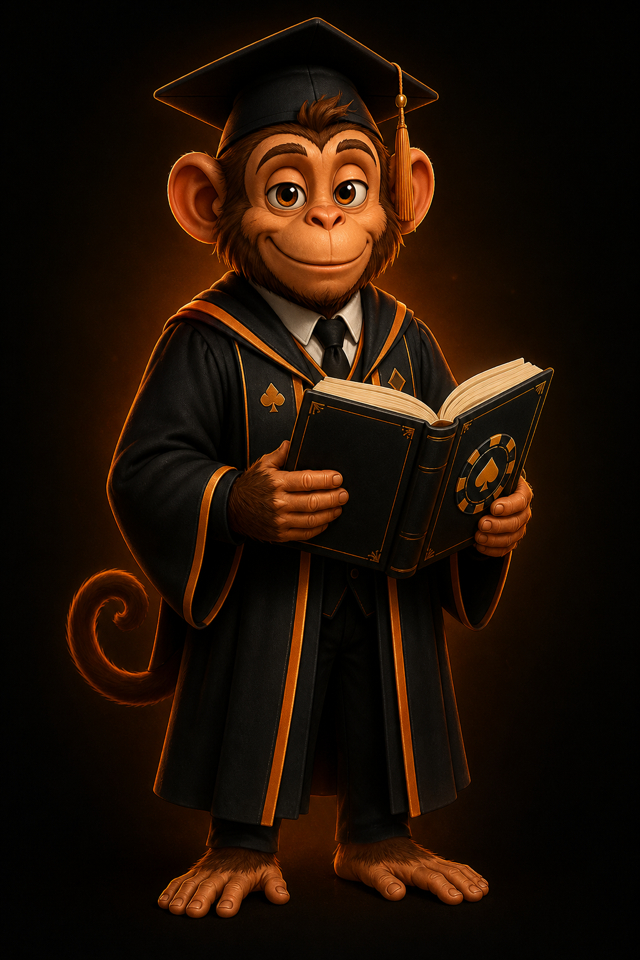
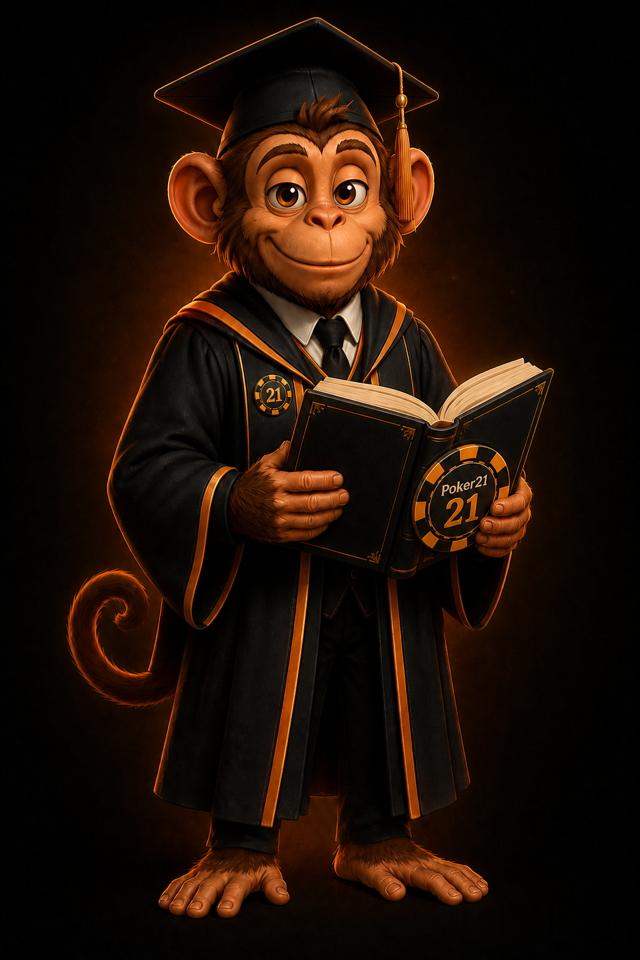
Refresh coach branding and July highlight

diff --git a/index.html b/index.html
@@ -389,7 +389,7 @@
     <link type="application/poker-lazy-style" data-poker-lazy-domain="chat profile" href="./styles-rating-chat-modals.css?v=3.992" />
     <link type="application/poker-lazy-style" data-poker-lazy-domain="learning" href="./styles-learning-games.css?v=3.862" />
     <link type="application/poker-lazy-style" data-poker-lazy-domain="learning admin admin-bonuses" href="./styles-daily-poker.css?v=3.858" />
-    <link type="application/poker-lazy-style" data-poker-lazy-domain="raffles" href="./styles-raffles.css?v=3.870" />
+    <link type="application/poker-lazy-style" data-poker-lazy-domain="raffles" href="./styles-raffles.css?v=3.871" />
     <link type="application/poker-lazy-style" data-poker-lazy-domain="rating-common" href="./styles-rating.css?v=3.997" />
     <link type="application/poker-lazy-style" data-poker-lazy-domain="hall" href="./styles-hall.css?v=4.004" />
     <link type="application/poker-lazy-style" data-poker-lazy-domain="tournament" href="./styles-tournament.css?v=3.858" />
@@ -1588,7 +1588,7 @@
           <div class="view" data-view="poker-tasks" data-html-fragment="./html-fragments/poker-tasks.html" data-html-fragment-view="poker-tasks"></div>
 
           <!-- Видео-уроки грузятся лениво: тяжёлый DOM живёт в html-fragments/video-lessons.html -->
-          <div class="view" data-view="video-lessons" data-html-fragment="./html-fragments/video-lessons.html?v=3.864" data-html-fragment-view="video-lessons"></div>
+          <div class="view" data-view="video-lessons" data-html-fragment="./html-fragments/video-lessons.html?v=3.871" data-html-fragment-view="video-lessons"></div>
 
           <!-- Зал славы прогревается заранее: тяжёлый DOM живёт в html-fragments/hall-of-fame.html -->
           <div class="view" data-view="hall-of-fame" data-html-fragment="./html-fragments/hall-of-fame.html?v=3.687" data-html-fragment-view="hall-of-fame"></div>
@@ -1968,7 +1968,7 @@
     <script defer src="./app-pwa-open-handlers.js?v=3.858"></script>
     <script type="application/poker-lazy" data-poker-lazy-domain="streams" src="./app-streams.js?v=3.858"></script>
     <script defer src="./app-referrals-menu.js?v=3.858"></script>
-    <script type="application/poker-lazy" data-poker-lazy-domain="video-lessons" src="./app-video-lessons.js?v=3.860"></script>
+    <script type="application/poker-lazy" data-poker-lazy-domain="video-lessons" src="./app-video-lessons.js?v=3.871"></script>
     <script type="application/poker-lazy" data-poker-lazy-domain="learning" src="./app-games.js?v=3.858"></script>
     <script type="application/poker-lazy" data-poker-lazy-domain="learning" src="./app-daily-poker.js?v=3.858"></script>
     <script type="application/poker-lazy" data-poker-lazy-domain="admin-bonuses" src="./app-admin-bonuses.js?v=3.858"></script>
@@ -1979,11 +1979,11 @@
     <script type="application/poker-lazy" data-poker-lazy-domain="raffles" src="./app-raffles-public.js?v=3.858"></script>
     <script type="application/poker-lazy" data-poker-lazy-domain="raffles" src="./app-raffles-active-view.js?v=3.858"></script>
     <script type="application/poker-lazy" data-poker-lazy-domain="raffles" src="./app-raffles-formatters.js?v=3.863"></script>
-    <script type="application/poker-lazy" data-poker-lazy-domain="raffles" src="./app-raffles.js?v=3.868"></script>
+    <script type="application/poker-lazy" data-poker-lazy-domain="raffles" src="./app-raffles.js?v=3.871"></script>
     <script type="application/poker-lazy" data-poker-lazy-domain="raffles" src="./app-raffles-share.js?v=3.858"></script>
     <script type="application/poker-lazy" data-poker-lazy-domain="video-lessons" src="./app-video-lessons-modals.js?v=3.861"></script>
     <script type="application/poker-lazy" data-poker-lazy-domain="equilator" src="./app-equilator.js?v=3.858"></script>
-    <script type="application/poker-lazy" data-poker-lazy-domain="home-widget-club-choice" src="./app-club-choice-vote.js?v=3.863"></script>
+    <script type="application/poker-lazy" data-poker-lazy-domain="home-widget-club-choice" src="./app-club-choice-vote.js?v=3.872"></script>
     <script type="application/poker-lazy" data-poker-lazy-domain="home-widget-private-cash" src="./app-private-cash.js?v=3.858"></script>
     <script defer src="./app-sng-champions.js?v=3.863"></script>
     <script type="application/poker-lazy" data-poker-lazy-domain="club-tasks" src="./app-club-tasks.js?v=3.858"></script>

diff --git a/app-club-choice-vote.js b/app-club-choice-vote.js
@@ -687,7 +687,7 @@
     if (normalizedNick === "покерманки") {
       return {
         title: "Чемпионская стабильность",
-        description: "Рекорд июля: 39 топ-3, из которых 37 — в Лиге 1. Все 14 побед — в Лиге 1. 18 июля выиграл два турнира в один день, включая Big Boss на 101 784 ₽. За месяц получил — 593 685 ₽."
+        description: "Рекорд июля: 39 топ-3, из которых 37 топ-3 и 14 побед — в Лиге 1. 18 июля выиграл два турнира в один день, включая Биг Босс на 101 784 ₽. За месяц получил 593 684 ₽."
       };
     }
     if (normalizedNick === "em13!!") {

diff --git a/html-fragments/video-lessons.html b/html-fragments/video-lessons.html
@@ -53,7 +53,7 @@
             </div>
             <section class="video-lessons__coach-profile" aria-labelledby="videoLessonsCoachProfileTitle">
               <div class="video-lessons__coach-profile-art" aria-hidden="true">
-                <img src="./assets/club-news-personal/fishkopcheny-coach-card.png" width="640" height="960" alt="" decoding="async" />
+                <img src="./assets/club-news-personal/fishkopcheny-coach-card.png?v=2" width="640" height="960" alt="" decoding="async" />
               </div>
               <div class="video-lessons__coach-profile-copy">
                 <span class="video-lessons__coach-profile-kicker">Автор курса · практикующий тренер</span>

diff --git a/app-raffles.js b/app-raffles.js
@@ -2495,7 +2495,7 @@ function initRaffles() {
         if (typeof window.pokerOpenUnifiedPlayerProfileByRatingNick === "function") {
           window.pokerOpenUnifiedPlayerProfileByRatingNick("FishKopcheny", { season: "summer" });
         } else if (typeof window.pokerOpenChatUserModalSafe === "function") {
-          window.pokerOpenChatUserModalSafe("371998", "FishKopcheny", "./assets/club-news-personal/fishkopcheny-coach-card.png");
+          window.pokerOpenChatUserModalSafe("371998", "FishKopcheny", "./assets/club-news-personal/fishkopcheny-coach-card.png?v=2");
         }
         return;
       }

diff --git a/styles-rating-raffles.css b/styles-rating-raffles.css
@@ -13320,7 +13320,7 @@ body[data-view="raffles"] .raffles-active-chooser__item--training .raffles-activ
   padding-right: clamp(116px, 31%, 188px) !important;
   background:
     linear-gradient(90deg, rgba(3, 6, 10, 0) 0%, rgba(3, 6, 10, 0.08) 52%, rgba(3, 6, 10, 0.58) 100%),
-    url("./assets/club-news-personal/fishkopcheny-coach-card.png") right 8px bottom / auto 96% no-repeat !important;
+    url("./assets/club-news-personal/fishkopcheny-coach-card.png?v=2") right 8px bottom / auto 96% no-repeat !important;
 }
 
 body[data-view="raffles"] .raffles-active-chooser__training-profile {

diff --git a/app-video-lessons.js b/app-video-lessons.js
@@ -69,7 +69,7 @@ document.addEventListener("click", function (e) {
     if (typeof window.pokerOpenUnifiedPlayerProfileByRatingNick === "function") {
       window.pokerOpenUnifiedPlayerProfileByRatingNick(coachNick, { season: "summer" });
     } else if (typeof window.pokerOpenChatUserModalSafe === "function") {
-      window.pokerOpenChatUserModalSafe("371998", coachNick, "./assets/club-news-personal/fishkopcheny-coach-card.png");
+      window.pokerOpenChatUserModalSafe("371998", coachNick, "./assets/club-news-personal/fishkopcheny-coach-card.png?v=2");
     }
     return;
   }

diff --git a/styles-raffles.css b/styles-raffles.css
@@ -1,2 +1,2 @@
 /* Raffles CSS entrypoint. */
-@import url("./styles-rating-raffles.css?v=3.856");
+@import url("./styles-rating-raffles.css?v=3.857");
